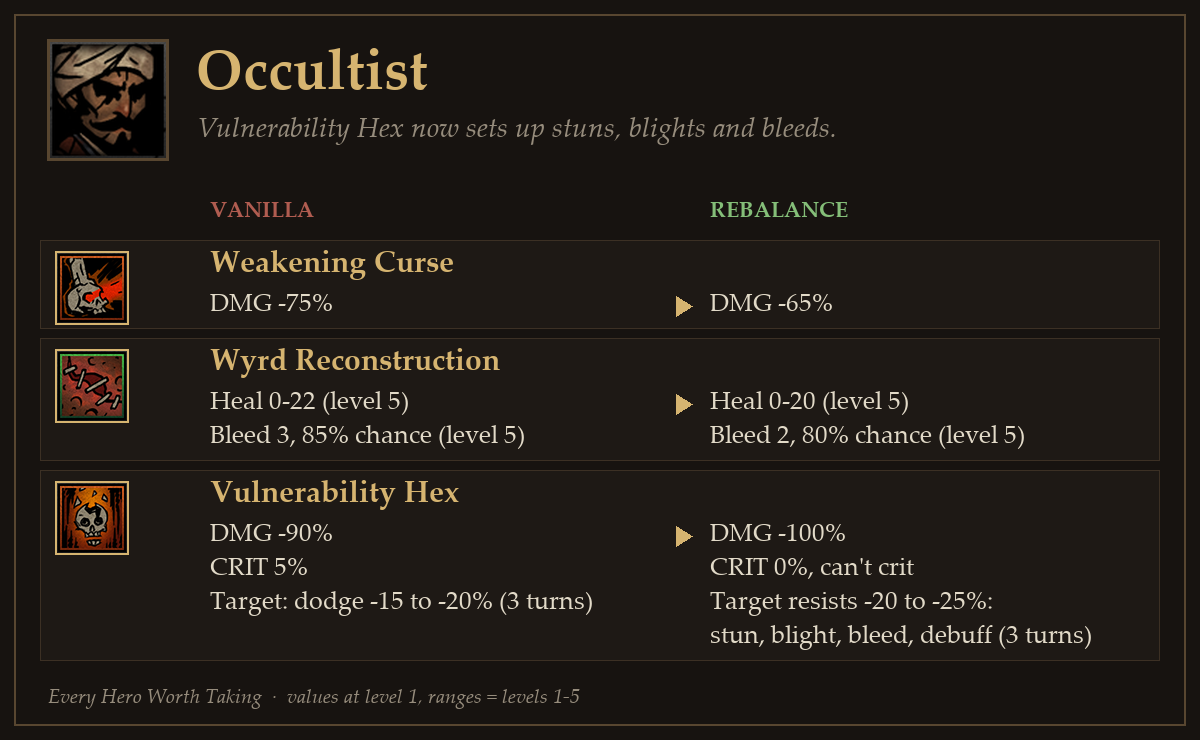
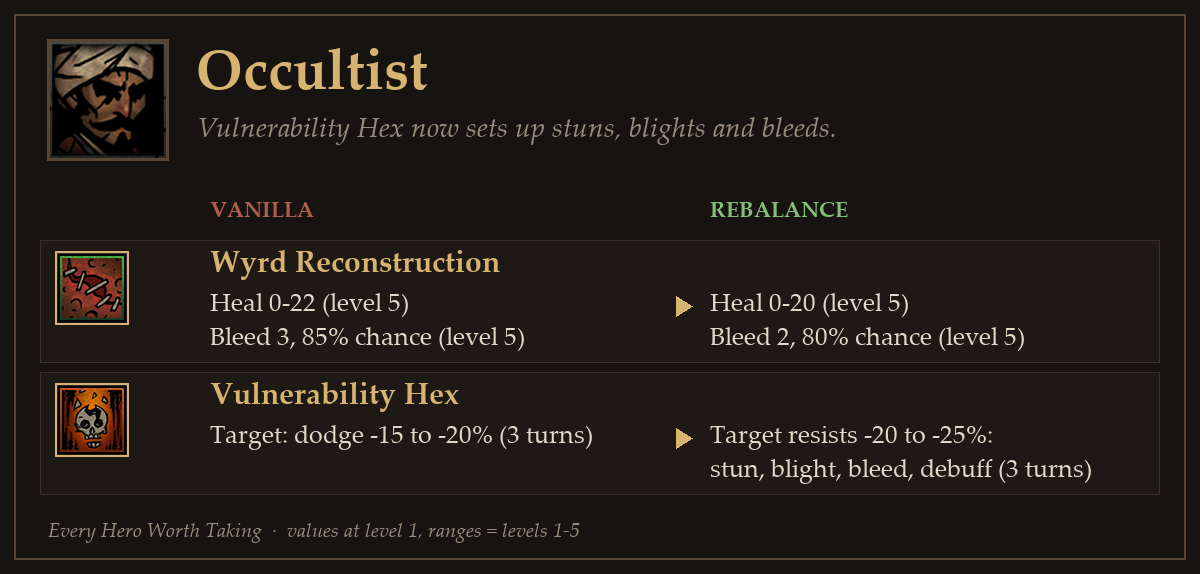
Workshop 2.0.4: Musketeer Sidearm/Mark the Quarry, Occultist curses, UI Enhancement note
Cards for Musketeer and Occultist regenerated; description updated in 10 languages (Mark the Quarry line, UI Enhancement compatibility line); change note EN+ZH.

diff --git a/design/workshop/patch_notes_ko.md b/design/workshop/patch_notes_ko.md
@@ -116,17 +116,16 @@
 - **방어구**: 방어구 체력 27 / 32 / 37 / 42 / 47 → 24 / 28 / 33 / 37 / 42 — 대회 참가자의 조끼는 탈영병의 판금이 아니다. 석궁사수보다 체력을 낮췄다. *(P-19 / MUS-102)*
 - **관통탄 (조준사격)**: 명중 95% → 90%; 대상 2·3·4 → 1·2·3·4; 1렙 표식 대상: 피해 +50%, 치명타 +9% 3턴 … 5렙 표식 대상: 피해 +100%, 치명타 +13% 3턴 → 1렙 표식 대상: 피해 +25%, 치명타 +9%; 자신: 방어 관통 +10% 1턴 … 5렙 표식 대상: 피해 +40%, 치명타 +13%; 자신: 방어 관통 +30% 1턴 — 설정 속 특수탄. 모든 열에 닿고 방어를 10~30% 뚫는 꾸준한 딜러가 됐다. 방어를 뚫는 만큼 표식 대상 추가 피해는 석궁사수보다 훨씬 낮다. *(P-19, R-TRADE-02 / MUS-103)*
 - **연막탄**: 피해 -80% → -100%; 치명 보정 -10% → 0%; 대상 광역 3·4 → 광역 1·2; 전투당 사용 없음 → 3; 치명 가능 True → False; 1렙 명중 -15%, 치명타 -15% 2턴 … 5렙 명중 -20%, 치명타 -19% (140%) 2턴 → 1렙 기절; 명중 -10% 1턴; 자신: 은신 2턴 … 5렙 기절 (140%); 명중 -15% (140%) 1턴; 자신: 은신 2턴 — 연막탄이면 가리고 숨어야 한다. 적 앞 두 열을 기절시키고 잠깐 눈을 가리며 총사는 연기 속에 숨는다. 원작 야만스러운 함성처럼 전투당 3번. *(P-19, P-20 / MUS-104)*
-- **사냥감 지정 (신호탄)**: 대상 2·3·4 → 1·2·3·4; 1렙 회피 -20% 2턴 … 5렙 회피 -30% (140%) 2턴 → 1렙 자신: 치명타 +4% (대형 상대) 3턴; 자신: 속도 +3 3턴 … 5렙 자신: 치명타 +8% (대형 상대) 3턴; 자신: 속도 +5 3턴 — "이놈은 내 거야!" 사냥감을 찍고 증명하려 서두른다. 3턴 동안 빨라지고 큰 사냥감에게 치명타가 잘 터진다. *(P-19 / MUS-105)*
+- **사냥감 지정 (신호탄)**: 대상 2·3·4 → 1·2·3·4; 1렙 회피 -20% 2턴 … 5렙 회피 -30% (140%) 2턴 → 1렙 받는 치명타 +5% 3턴; 자신: 속도 +3, 명중 +5% 3턴 … 5렙 받는 치명타 +10% (140%) 3턴; 자신: 속도 +5, 명중 +10% 3턴 — "이놈은 내 거야!" 사냥감을 찍고 증명하려 서두른다. 3턴 동안 빨라지고 큰 사냥감에게 치명타가 잘 터진다. *(P-19 / MUS-105)*
 - **몰이 사격 (산탄)**: 대상 광역 1·2 → 광역 2·3; 1렙 밀치기 1 (75%) … 5렙 밀치기 1 (105%) → 1렙 밀치기 1 … 5렙 밀치기 1 (140%) — 사냥의 몰이. 2·3열 적을 뒤로 밀어 뒤에 숨은 적을 앞으로 끌어낸다. *(P-19 / MUS-106, MUS-112)*
-- **권총사격**: 명중 75% → 90%; 피해 -10% → -40%; 치명 보정 0% → 3%; 사용 열 4·3·2·1 → 3·2·1; 대상 1·2·3·4 → 1·2; 이동 없음 → 뒤로 1; 제거: 1렙 자신: 속도 +3 … 5렙 자신: 속도 +5 — 거리를 두는 성격 그대로. 앞의 적에게 권총을 쏘고 한 칸 물러난다. *(P-19 / MUS-107)*
+- **권총사격**: 명중 75% → 90%; 피해 -10% → -20%; 치명 보정 0% → 3%; 사용 열 4·3·2·1 → 3·2·1; 대상 1·2·3·4 → 1·2·3; 이동 없음 → 뒤로 1; 1렙 자신: 속도 +3 … 5렙 자신: 속도 +5 → 1렙 치명타 -10% 2턴 … 5렙 치명타 -15% (140%) 2턴 — 거리를 두는 성격 그대로. 앞의 적에게 권총을 쏘고 한 칸 물러난다. *(P-19 / MUS-107)*
 - **응급처치**: 1렙 받는 회복 +20% … 5렙 받는 회복 +38% → 1렙 스트레스 회복 2 … 5렙 스트레스 회복 4 — 성전사 격려의 함성의 반대. 회복은 그대로, 스트레스도 조금 덜어 준다. 받는 회복량 증가는 성전사 전투 치유 몫이다. *(G-01 / MUS-108)*
 - **엄호 연막 (스키트 사격)**: 명중 95% → 0%; 피해 -100% → 0%; 대상 광역 1·2·3·4 → 아군 1·2·3·4; 은신 무시 true → 없음; 1렙 아군 전체: 표식 해제, 기절 해제; 횃불 +3; 은신 해제; 아군 전체: 스트레스 회복 1 (60%) … 5렙 아군 전체: 표식 해제, 기절 해제; 횃불 +7; 은신 해제; 아군 전체: 스트레스 회복 3 (67%) → 은신 2턴 — 새로운 방식의 지키기. 공중에서 터진 연막이 아군 한 명을 2턴 숨겨 적이 직접 노리지 못한다. 누가 대신 맞아 줄 필요가 없다. *(P-19 / MUS-109)*
 
 ## 신비학자
 
-- **약화 저주**: 피해 -75% → -65% — 약화 저주는 신비학자 기술 중 가장 약했다. 취약화 주술에서 뺀 피해를 이쪽으로 옮겨 신비학자 전체 힘은 유지한다. *(P-11, G-02 / OCC-007)*
 - **기괴한 재구축**: 회복 0-13 … 0-22 → 0-13 … 0-20; 1렙 변화 없음 … 5렙 출혈 3×3턴 (85%) → 1렙 변화 없음 … 5렙 출혈 2×3턴 (80%) — 마지막 업그레이드에서 출혈 위험이 급증해 4레벨에서 멈추는 플레이어가 많았다. 5레벨 출혈을 4레벨과 같게 하고 대신 최대 회복을 조금 줄여, 도박성은 지키면서 마지막 업그레이드를 살 이유를 만들었다. *(G-02, P-12 / OCC-001)*
-- **취약화 주술**: 피해 -90% → -100%; 치명 보정 5% → 0%; 치명 가능 True → False; 1렙 회피 -15% 3턴 … 5렙 회피 -20% (140%) 3턴 → 1렙 기절 저항 -20%, 중독 저항 -20%, 출혈 저항 -20%, 약화 저항 -20% 3턴 … 5렙 기절 저항 -25%, 중독 저항 -25%, 출혈 저항 -25%, 약화 저항 -25% (140%) 3턴 — 표식+회피 감소는 석궁사수 저격 표식과 겹쳤다. 이름대로 저항을 낮추게 바꿨고, 기절·약화 저항을 깎는 유일한 영웅 기술이라 아군 기절·중독·출혈을 받쳐 준다. 다른 순수 표식 기술처럼 피해를 없앴고, 수치는 매 레벨 성장하게 했다. *(P-19, R-STRAT-01, R-SKILL-05 / OCC-003, OCC-005, OCC-006, OCC-009, OCC-004)*
+- **취약화 주술**: 1렙 회피 -15% 3턴 … 5렙 회피 -20% (140%) 3턴 → 1렙 기절 저항 -20%, 중독 저항 -20%, 출혈 저항 -20%, 약화 저항 -20% 3턴 … 5렙 기절 저항 -25%, 중독 저항 -25%, 출혈 저항 -25%, 약화 저항 -25% (140%) 3턴 — 표식+회피 감소는 석궁사수 저격 표식과 겹쳤다. 이름대로 저항을 낮추게 바꿨고, 기절·약화 저항을 깎는 유일한 영웅 기술이라 아군 기절·중독·출혈을 받쳐 준다. 다른 순수 표식 기술처럼 피해를 없앴고, 수치는 매 레벨 성장하게 했다. *(P-19, R-STRAT-01, R-SKILL-05 / OCC-003, OCC-005, OCC-006, OCC-009, OCC-004)*
 
 ## 역병 의사
 

diff --git a/design/workshop/patch_notes_en.md b/design/workshop/patch_notes_en.md
@@ -116,17 +116,16 @@ Each entry: what changed (generated from the game data) — why (principle IDs f
 - **Armor**: Armor HP 27 / 32 / 37 / 42 / 47 → 24 / 28 / 33 / 37 / 42 — A tournament entrant's vest is not a deserter's plate: less health than the Arbalest. *(P-19 / MUS-102)*
 - **Piercing Ball (Aimed Shot)**: Accuracy 95% → 90%; Targets 2·3·4 → 1·2·3·4; Lv1 vs marked: damage +50%, crit +9% 3t … Lv5 vs marked: damage +100%, crit +13% 3t → Lv1 vs marked: damage +25%, crit +9%; self: armor piercing +10% 1t … Lv5 vs marked: damage +40%, crit +13%; self: armor piercing +30% 1t — Special ammunition from her lore: the shot now reaches every rank and pierces 10-30% armor, so she is a steady dealer against tough enemies. Because of the piercing, her bonus against marked targets is far smaller than the Arbalest's. *(P-19, R-TRADE-02 / MUS-103)*
 - **Smokescreen**: Damage -80% → -100%; Crit -10% → 0%; Targets AoE 3·4 → AoE 1·2; Uses per battle none → 3; Can crit True → False; Lv1 accuracy -15%, crit -15% 2t … Lv5 accuracy -20%, crit -19% (140%) 2t → Lv1 stun; accuracy -10% 1t; self: stealth 2t … Lv5 stun (140%); accuracy -15% (140%) 1t; self: stealth 2t — A smoke grenade should hide and blind: it now stuns the front two enemies, blinds them briefly and hides the Musketeer in the smoke, three times per battle like the original Barbaric Yawp. *(P-19, P-20 / MUS-104)*
-- **Mark the Quarry (Call the Shot)**: Targets 2·3·4 → 1·2·3·4; Lv1 dodge -20% 2t … Lv5 dodge -30% (140%) 2t → Lv1 self: crit +4% (vs large monsters) 3t; self: speed +3 3t … Lv5 self: crit +8% (vs large monsters) 3t; self: speed +5 3t — "This prize is mine!" She marks her quarry and hurries to prove herself: faster for three turns and deadlier against large monsters. *(P-19 / MUS-105)*
+- **Mark the Quarry (Call the Shot)**: Targets 2·3·4 → 1·2·3·4; Lv1 dodge -20% 2t … Lv5 dodge -30% (140%) 2t → Lv1 crits taken +5% 3t; self: speed +3, accuracy +5% 3t … Lv5 crits taken +10% (140%) 3t; self: speed +5, accuracy +10% 3t — "This prize is mine!" She marks her quarry and hurries to prove herself: faster for three turns and deadlier against large monsters. *(P-19 / MUS-105)*
 - **Flushing Shot (Buckshot)**: Targets AoE 1·2 → AoE 2·3; Lv1 push 1 (75%) … Lv5 push 1 (105%) → Lv1 push 1 … Lv5 push 1 (140%) — A hunter's drive: the shot pushes the enemies in ranks 2-3 back, pulling the back-liner forward. *(P-19 / MUS-106, MUS-112)*
-- **Sidearm**: Accuracy 75% → 90%; Damage -10% → -40%; Crit 0% → 3%; Usable ranks 4·3·2·1 → 3·2·1; Targets 1·2·3·4 → 1·2; Move none → back 1; Removed: Lv1 self: speed +3 … Lv5 self: speed +5 — She keeps her distance: fire the pistol at the enemy in front, then step back one rank. *(P-19 / MUS-107)*
+- **Sidearm**: Accuracy 75% → 90%; Damage -10% → -20%; Crit 0% → 3%; Usable ranks 4·3·2·1 → 3·2·1; Targets 1·2·3·4 → 1·2·3; Move none → back 1; Lv1 self: speed +3 … Lv5 self: speed +5 → Lv1 crit -10% 2t … Lv5 crit -15% (140%) 2t — She keeps her distance: fire the pistol at the enemy in front, then step back one rank. *(P-19 / MUS-107)*
 - **Patch Up**: Lv1 healing received +20% … Lv5 healing received +38% → Lv1 stress heal 2 … Lv5 stress heal 4 — The opposite of the Crusader's Inspiring Cry: same healing, plus a little stress relief. The healing-received bonus now belongs to the Crusader's Battle Heal. *(G-01 / MUS-108)*
 - **Covering Smoke (Skeet Shot)**: Accuracy 95% → 0%; Damage -100% → 0%; Targets AoE 1·2·3·4 → ally 1·2·3·4; Ignores stealth true → none; Lv1 party: remove mark, remove stun; light +3; destealth; party: stress heal 1 (60%) … Lv5 party: remove mark, remove stun; light +7; destealth; party: stress heal 3 (67%) → stealth 2t — A new way to protect: an airburst smoke shell hides one ally for two turns, so enemies cannot single them out. Nobody has to take the hits for them. *(P-19 / MUS-109)*
 
 ## Occultist
 
-- **Weakening Curse**: Damage -75% → -65% — Weakening Curse was the Occultist's weakest skill, so the damage taken out of Vulnerability Hex moves here and his overall power stays the same. *(P-11, G-02 / OCC-007)*
 - **Wyrd Reconstruction**: Heal 0-13 … 0-22 → 0-13 … 0-20; Lv1 unchanged … Lv5 bleed 3×3t (85%) → Lv1 unchanged … Lv5 bleed 2×3t (80%) — Many players stopped at level 4 because the final upgrade sharply raised the bleed risk. Level 5 now keeps the level-4 bleed and gives up a little top-end healing instead, so the last upgrade is worth buying while the skill stays a gamble. *(G-02, P-12 / OCC-001)*
-- **Vulnerability Hex**: Damage -90% → -100%; Crit 5% → 0%; Can crit True → False; Lv1 dodge -15% 3t … Lv5 dodge -20% (140%) 3t → Lv1 stun res -20%, blight res -20%, bleed res -20%, debuff res -20% 3t … Lv5 stun res -25%, blight res -25%, bleed res -25%, debuff res -25% (140%) 3t — Mark plus dodge down duplicated the Arbalest's Sniper's Mark. True to its name, the hex now lowers resistances, the only hero skill that weakens stun and debuff resist, setting up the party's stuns, blights and bleeds; like the other pure mark skills it no longer deals damage, and its values now grow every level. *(P-19, R-STRAT-01, R-SKILL-05 / OCC-003, OCC-005, OCC-006, OCC-009, OCC-004)*
+- **Vulnerability Hex**: Lv1 dodge -15% 3t … Lv5 dodge -20% (140%) 3t → Lv1 stun res -20%, blight res -20%, bleed res -20%, debuff res -20% 3t … Lv5 stun res -25%, blight res -25%, bleed res -25%, debuff res -25% (140%) 3t — Mark plus dodge down duplicated the Arbalest's Sniper's Mark. True to its name, the hex now lowers resistances, the only hero skill that weakens stun and debuff resist, setting up the party's stuns, blights and bleeds; like the other pure mark skills it no longer deals damage, and its values now grow every level. *(P-19, R-STRAT-01, R-SKILL-05 / OCC-003, OCC-005, OCC-006, OCC-009, OCC-004)*
 
 ## Plague Doctor
 

diff --git a/design/workshop/DESCRIPTION_LOG.md b/design/workshop/DESCRIPTION_LOG.md
@@ -11,6 +11,7 @@
 | 10-21 | 1.0 | 필요 DLC 안내(진홍 궁정·방패 파괴자·결투가·도망자) 10개 언어 | 댓글(东海神龙) 실행 실패 제보 | d7c4612, e430540 |
 | 10-21 | 2.0 | 총사 합류(20명): 총사 한 줄, 필요 DLC에 총사(무료), "20명", 총합 "1% 이내", 장신구 예시를 총사 연막탄으로, 나병환자 복수 | 총사 자체 리워크 공개, 정맥 절개 바닐라 복귀로 예시 교체 | 18ecc47, da77d35 |
 | 10-21 | 2.0~2.0.2 | 변경 사항 탭 사용 시작. 버전 2.0(총사)·2.0.1(몰이 사격 수정)·2.0.2(수치 조정). 영어 + 중국어 간체 | "총사를 아예 만들었으니 1.x가 아니라 2.0", 업데이트 노트는 B안(영어+중국어) | (changenotes/) |
+| 10-22 | 2.0.4 | 총사 사냥감 지정 문장(받는 치명·명중·속도), 호환성 절에 UI Enhancement 안내 10개 언어. 한국어는 8000바이트 한도로 엄호 연막 문장 축약 | 총사 MUS-113·114, 신비학자 OCC-013·014 반영. "UI 안내도 넣어" [제작자] | (이 커밋) |
 | 10-22 | 2.0.3 | 원칙 절 전면 개편(아래), 대표 사례 현상금 사냥꾼 → 총사 | 아래 원문 | 28201d4, fb3a0b6 |
 
 ## 2.0.3 개편 내용 (10-22, 제작자 지정)
